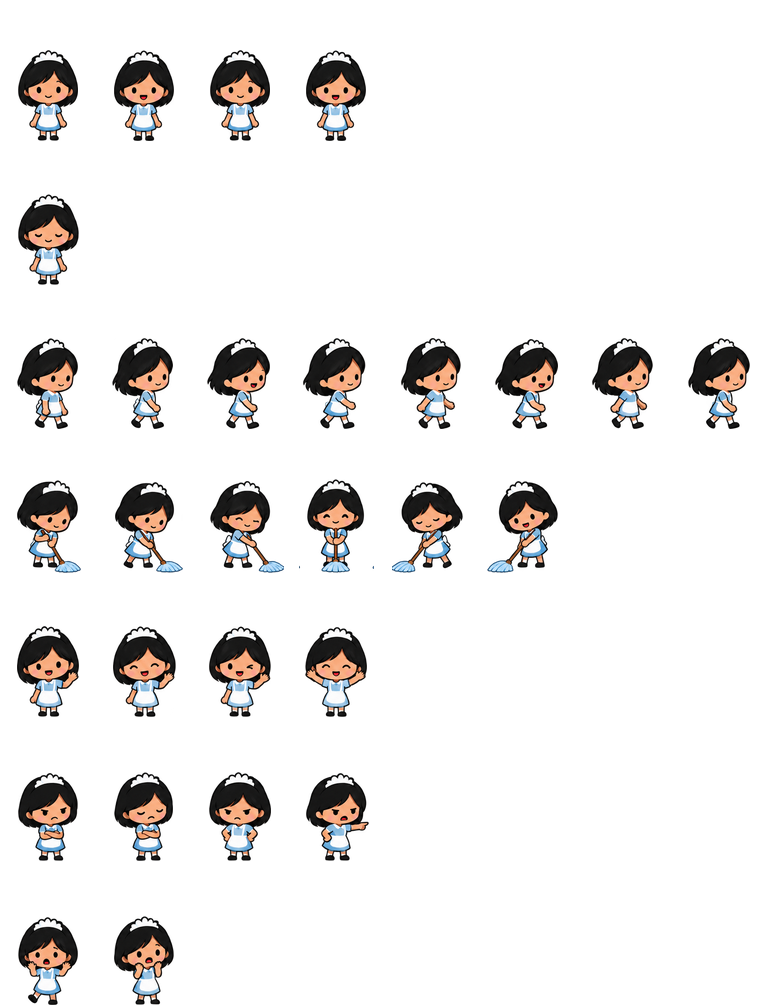
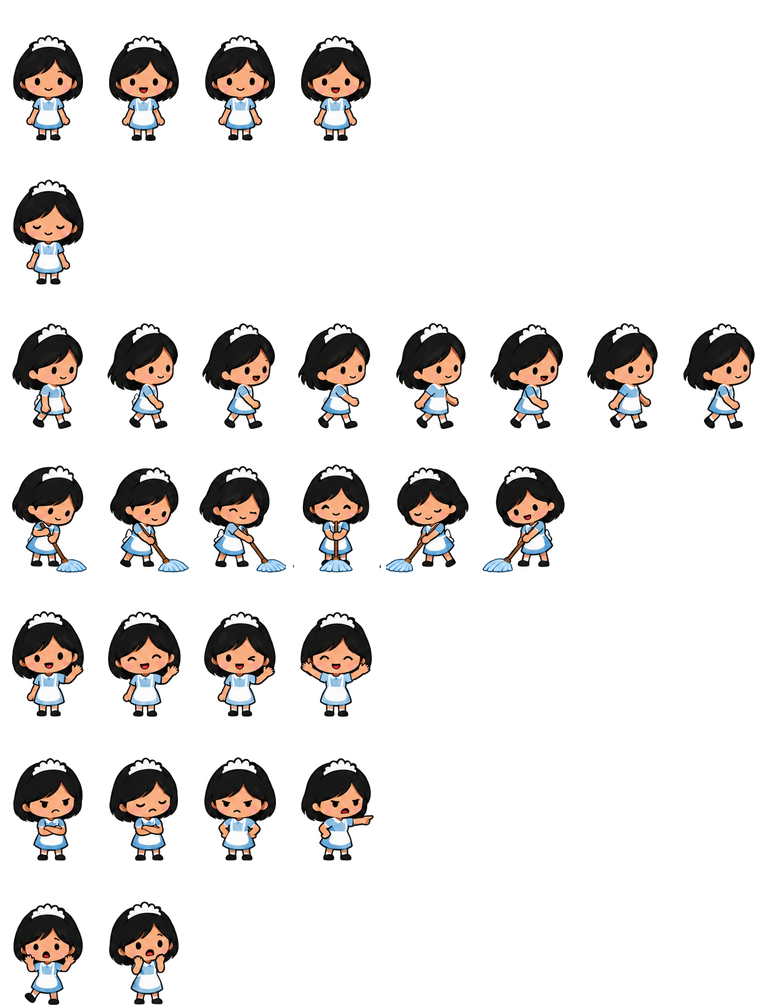
Keep cleaner proportions consistent across reaching poses

diff --git a/hotel-city-tycoon/tools/art/export_approved.py b/hotel-city-tycoon/tools/art/export_approved.py
@@ -94,7 +94,7 @@ def character(kind, name, bands, clips, columns=None):
     standing = [collection[p] for clip, ps in clips.items() if clip != 'sleep' for p in ps]
     # One scale per character, not a different head size for every wide pose.
     scale = min(57 / max(img.height for img, _ in standing),
-                (px - 2) / max(max(cx, img.width - cx) for img, cx in standing))
+                (fw - 4) / max(img.width for img, _ in standing))
     metadata = {'source': name, 'scale': scale, 'frame': anim['frame'],
                 'status': 'IMPLEMENTED; motion and interaction review pending', 'clips': {}}
     for tier in (1, 2):
@@ -115,6 +115,9 @@ def character(kind, name, bands, clips, columns=None):
                 art = art.crop(bb)
                 center = art.width / 2 if clip == 'sleep' else cx * s * tier - bb[0]
                 x, y = round(px * tier - center), py * tier - art.height + 1
+                # Let a reach lean within the cell instead of shrinking the
+                # entire cleaner merely because her mop extends on one side.
+                x = max(tier, min(x, fw * tier - art.width - tier))
                 # Bed anchor is its floor contact; the sleeper rests on the
                 # mattress above it. Keep the shared pivot, lift only its art.
                 if clip == 'sleep':

diff --git a/hotel-city-tycoon/docs/HC-VIS-001B-REPORT.md b/hotel-city-tycoon/docs/HC-VIS-001B-REPORT.md
@@ -1,12 +1,12 @@
 # HC-VIS-001B — تقرير إنتاج الرسومات الجديدة
 
-08-09-2026 الأردن / 07-09-2026 UTC. الحالة: **IMPLEMENTED — الاعتماد البصري داخل المحرك معلق**.
+آخر تحديث: 08-09-2026 UTC. الحالة: **IMPLEMENTED — الاعتماد البصري داخل المحرك معلق**.
 
 ## ما نُفذ
 
 بُنيت سبعة مصادر أصلية بأداة ImageGen من الصورة المعتمدة: خلفيتا اللوبي والاقتصادية، مكتب استقبال منفصل، سرير، وأوراق وضعيات النزيل وموظفة الاستقبال والمنظفة. حُفظت المصادر وأوامرها وبصماتها في `art-source/approved/cartoon-v1/`، وصُدّرت 32 صورة تشغيل فعلية بدقتي 1× و2× إلى المسارات الحالية في `public/assets/`.
 
-فُحصت شفافية PNG فعليًا؛ المحاولات الأولى التي حملت مربعات مطبوعة استُبعدت، وصُححت بأداة الصور قبل التصدير. ترتيب القص وعدد الإطارات وFPS بقي من ملفات `data/animations/`. استُخدم مقياس واحد للشخصية عبر وضعيات الوقوف، ومحاذاة القدم إلى pivot (24,70)، مع رفع رسم النائم 10 بكسلات منطقية داخل إطاره كي يستقر على المرتبة بدلاً من الأرض. لم تتغير معرّفات اللعبة أو الحفظ أو مواضع الديكور المخزنة.
+فُحصت شفافية PNG فعليًا؛ المحاولات الأولى التي حملت مربعات مطبوعة استُبعدت، وصُححت بأداة الصور قبل التصدير. ترتيب القص وعدد الإطارات وFPS بقي من ملفات `data/animations/`. استُخدم مقياس واحد للشخصية عبر وضعيات الوقوف، ومحاذاة القدم إلى pivot (24,70)، مع رفع رسم النائم 10 بكسلات منطقية داخل إطاره كي يستقر على المرتبة بدلاً من الأرض. صُحح تناسب عامل النظافة أيضًا: لا يتسبب امتداد الممسحة في تصغير الشخصية كلها، مع بقاء الأطراف داخل الإطار. لم تتغير معرّفات اللعبة أو الحفظ أو مواضع الديكور المخزنة.
 
 المكتب في طبقة front الحالية، ضمن غلاف الرسم المقيس x140..209/y51..87. السرير أصل مستقل، لا أثاث إضافي مطبوع في الخلفيتين. ملفات الليل والاتساخ مشتقة من الفن الجديد بتحويلات اللعبة الحالية؛ طبقة الحشرات الحالية باقية.
 
@@ -17,13 +17,13 @@
 | الفحص | النتيجة المحلية |
 |---|---|
 | `npm run verify` | ناجح: 92 اختبار Vitest و776 فحصًا ذاتيًا؛ 4 تحذيرات lint قائمة، بلا أخطاء |
-| `npm run mobile:build` | ناجح؛ JS gzip نحو 335KB / 350KB، الفن والصوت نحو 8816KB / 12288KB |
+| `npm run mobile:build` | ناجح؛ JS gzip نحو 335KB / 350KB، الفن والصوت نحو 8933KB / 12288KB |
 | `npm run check:art` | 7 بصمات مصدر و32 تصديرًا صحيح الأبعاد في الفهرس |
 | `node --experimental-strip-types tools/selftest/animations.ts` | 22 فحصًا؛ انجراف أسفل الإطار 0px، وعدم قص الأطراف، ولم يحدث تكرار كامل لأي clip |
 | محاولة `gen:art` وثلاثة مولدات قديمة مباشرة | أربعة رفضات من الحارس الفعلي، وكل بصمات الأصول المحمية لم تتغير |
 | `python3 tools/art/preview_approved.py` | راجعت تجميع الأصول الحالية بصريًا؛ ليس تصويرًا للمحرك |
 
-Node المحلي 24.19.0؛ نتيجة CI على Node 22 توثق في وصف PR عند توفرها. لا توجد نتيجة جديدة لقياس iPhone/Android أو فيديو دورة لعب أو اعتماد رسوم GPU. معاينة الفرع في المتصفح السحابي غير متاحة بعد خطأ ERR_BLOCKED_BY_CLIENT المسجل في HC-VIS-001A؛ لا تُستبدل بلقطة من الفرع المنشور القديم.
+Node المحلي 24.19.0؛ اجتاز الإصدار الأول CI على Node 22 (run 34168046680). تعديل تناسب الشخصيات اللاحق اجتاز محليًا verify وmobile:build؛ نتيجة CI لهذا التعديل تتبع رأس PR. لا توجد نتيجة جديدة لقياس iPhone/Android أو فيديو دورة لعب أو اعتماد رسوم GPU. معاينة الفرع في المتصفح السحابي غير متاحة بعد خطأ ERR_BLOCKED_BY_CLIENT المسجل في HC-VIS-001A؛ لا تُستبدل بلقطة من الفرع المنشور القديم.
 
 عالج التحقق تعارضين تاريخيين محددين: منع الأسود في ART-0 استبدلته DEC-015 للغرفتين المعاد رسمهما فقط؛ وفحص shipping ظل يحمل 8MB بينما سقف 12MB معتمد منذ HC-P2-S1 بتاريخ 05-09-2026. صار فحصا الميزانية يقرآن الأرقام المعتمدة نفسها من `tools/performance-budgets.json`؛ لم تُرفع الميزانية في هذه الدفعة.
 
